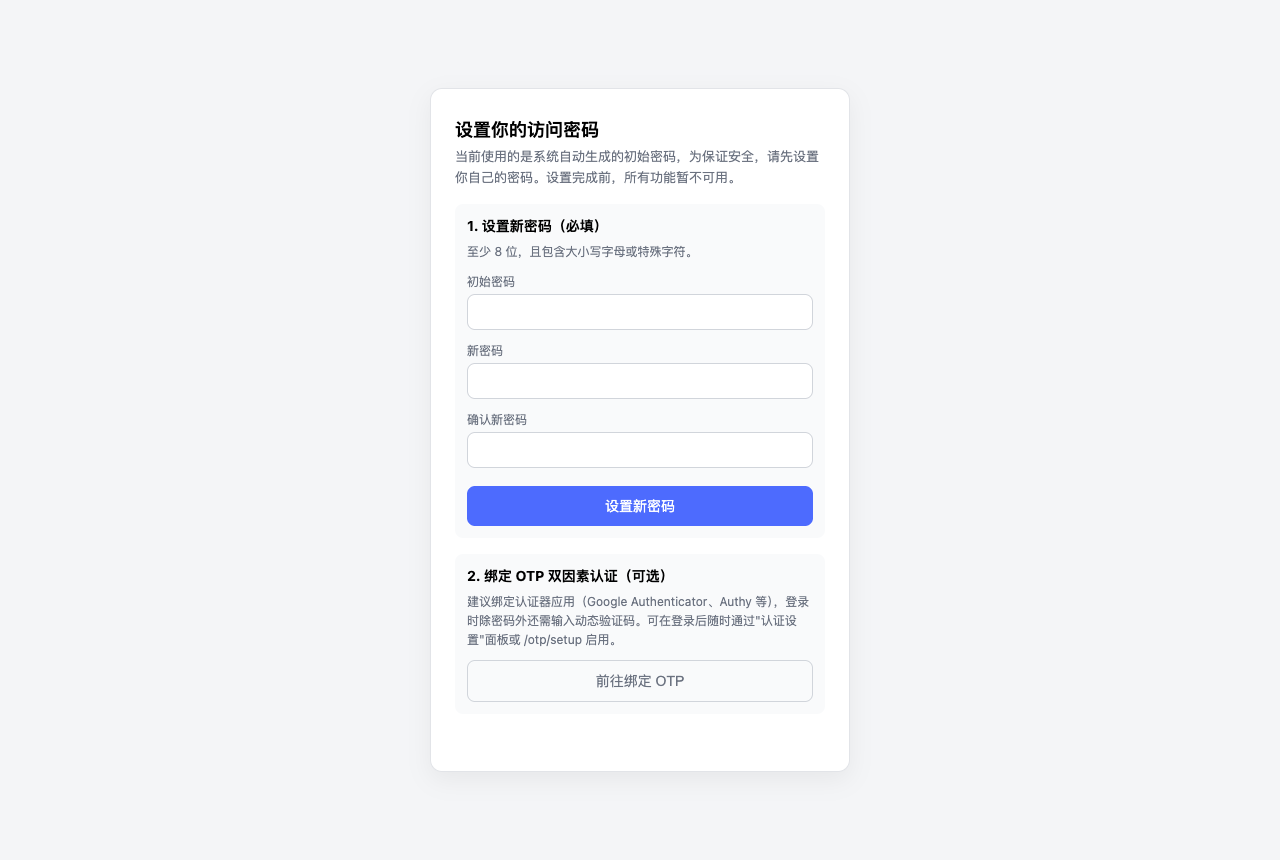
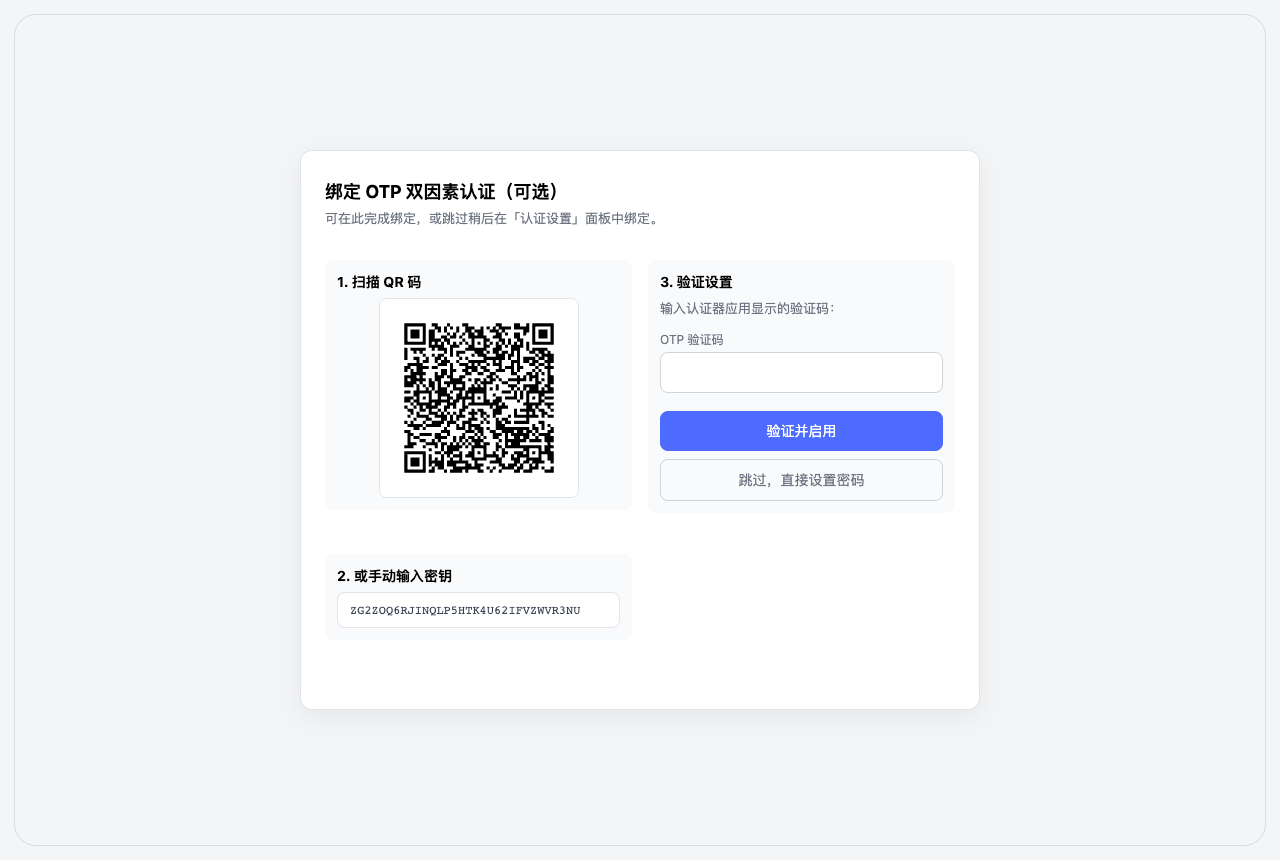
feat: two-step onboarding with optional OTP binding and widened card
Split the first-run flow into two pages: /onboarding (optional TOTP
binding, auto-started on load, skip button) and /onboarding/password
(mandatory personal password). Binding OTP mid-onboarding no longer
revokes the session or clears the cookie — the password step revokes
once, so the user is not bounced back to login in the middle of the
flow.

Restructure the step-1 layout for desktop: the card widens from a fixed
420px to min(680px, ...) with a two-column binding area (QR + secret on
the left, verify + skip on the right); a successful binding replaces
the whole flow with backup codes and the Next button, keeping the page
above the fold. Phones fall back to a single column. Regenerate README
screenshots for the new UI.

diff --git a/lib/onboarding-page.js b/lib/onboarding-page.js
@@ -1,8 +1,16 @@
 /**
- * Onboarding page: shown after logging in with the auto-generated initial
- * password. Step 1 (mandatory): set a personal password — all access stays
- * blocked until it is replaced. Step 2 (optional): bind a TOTP authenticator
- * via the OTP setup flow.
+ * Onboarding pages: the first-run flow after logging in with the
+ * auto-generated initial password. Split into two separate pages:
+ *
+ *   /onboarding            — step 1 (optional): bind a TOTP authenticator.
+ *                            The binding flow is shown directly (auto-starts
+ *                            on load); a skip button leads to step 2, and a
+ *                            successful binding continues with a "Next"
+ *                            button. This is the onboarding entry — the
+ *                            settings panel (/otp/setup) is a separate entry
+ *                            for already-onboarded sessions.
+ *   /onboarding/password   — step 2 (mandatory): set a personal password;
+ *                            all access stays blocked until it is replaced.
  *
  * The render locale ('zh' default, 'en') is resolved by the gateway
  * (lib/locale.js) and selects the UI copy and the script-head error map.
@@ -14,41 +22,89 @@ import { baseStyle, scriptHead, strengthErrorScript, makePage } from './page-she
 
 /** Page-specific CSS on top of the shared base. */
 const STYLE = baseStyle + `
-.card { width: min(420px, calc(100vw - 32px)); }
+.card { width: min(680px, calc(100vw - 32px)); }
 p.sub { margin: 0 0 16px; line-height: 1.6; }
 .step { margin: 16px 0; padding: 12px; background: #f9fafb; border-radius: 8px; }
 .step h3 { margin: 0 0 6px; font-size: 14px; }
 .step p { margin: 0; font-size: 12px; color: #6b7280; line-height: 1.6; }
 @media (prefers-color-scheme: dark) { .step { background: #1d1f24; } }
+/* Two-column binding layout on wide screens: QR + secret on the left, the
+   verification form and the skip button on the right — no vertical scrolling
+   on desktop. Phones fall back to a single column. */
+.otp-grid { display: grid; grid-template-columns: 1fr 1fr; gap: 16px; align-items: start; }
+.otp-left { display: flex; flex-direction: column; gap: 12px; }
+.otp-left .qr-container { display: flex; justify-content: center; }
+.otp-left img { border: 1px solid #e2e4e8; border-radius: 8px; width: 200px; height: 200px; }
+.otp-left .secret-box {
+  background: #fff; border: 1px solid #e2e4e8; border-radius: 8px;
+  padding: 10px 12px; word-break: break-all;
+  font-family: monospace; font-size: 12px; color: #374151;
+}
+.otp-right { display: flex; flex-direction: column; gap: 10px; }
+.otp-right p { margin: 0; font-size: 13px; color: #6b7280; line-height: 1.6; }
+.otp-right input { text-align: center; letter-spacing: 8px; font-size: 18px; font-family: monospace; }
+@media (max-width: 640px) { .otp-grid { grid-template-columns: 1fr; } }
+/* The password step keeps its fields compact and centered inside the
+   widened card. */
+.pw-step { max-width: 380px; margin: 0 auto; }
+/* Full-viewport decorative frame: the card keeps its size and stays
+   centered, while the frame border stretches with the screen — a wide
+   desktop gets a wide frame instead of bare side whitespace. */
+body::before {
+  content: ''; position: fixed; top: 14px; right: 14px; bottom: 14px; left: 14px;
+  border: 1px solid rgba(127, 127, 127, 0.22); border-radius: 22px;
+  pointer-events: none;
+}
+@media (prefers-color-scheme: dark) { body::before { border-color: rgba(255, 255, 255, 0.14); } }
 `
 
 /** UI copy per locale. */
 const STR = {
   zh: {
-    title: '设置你的访问密码',
-    sub: '当前使用的是系统自动生成的初始密码，为保证安全，请先设置你自己的密码。设置完成前，所有功能暂不可用。',
-    step1H3: '1. 设置新密码（必填）',
-    step1P: '至少 8 位，且包含大小写字母或特殊字符。',
+    otpTitle: '绑定 OTP 双因素认证（可选）',
+    otpSub: '可在此完成绑定，或跳过稍后在「认证设置」面板中绑定。',
+    otpStep1H3: '1. 扫描 QR 码',
+    otpStep2H3: '2. 或手动输入密钥',
+    otpStep3H3: '3. 验证设置',
+    otpStep3P: '输入认证器应用显示的验证码：',
+    otpLabelOtp: 'OTP 验证码',
+    otpBtnVerifyEnable: '验证并启用',
+    otpSetupDoneP: 'OTP 已启用，请妥善保存下方备份代码。',
+    otpBackupH3: '备份代码（请妥善保存）',
+    otpBackupP: '每个备份代码只能使用一次。如果丢失认证器设备，可以使用这些代码登录。',
+    otpBtnNext: '下一步',
+    btnSkip: '跳过，直接设置密码',
+    passwordTitle: '设置你的访问密码',
+    passwordSub: '当前使用的是系统自动生成的初始密码，为保证安全，请先设置你自己的密码。设置完成前，所有功能暂不可用。',
+    passwordStepH3: '设置新密码（必填）',
+    passwordStepP: '至少 8 位，且包含大小写字母或特殊字符。',
     labelOld: '初始密码',
     labelNew: '新密码',
     labelConfirm: '确认新密码',
     btnSubmit: '设置新密码',
-    step2H3: '2. 绑定 OTP 双因素认证（可选）',
-    step2POn: '建议绑定认证器应用（Google Authenticator、Authy 等），登录时除密码外还需输入动态验证码。可在登录后随时通过"认证设置"面板或 /otp/setup 启用。',
-    btnBind: '前往绑定 OTP',
   },
   en: {
-    title: 'Set your access password',
-    sub: 'You are currently using an auto-generated initial password. Set your own password first — everything stays locked until then.',
-    step1H3: '1. Set a new password (required)',
-    step1P: 'At least 8 characters, with mixed case or a special character.',
+    otpTitle: 'Bind a TOTP authenticator (optional)',
+    otpSub: 'Bind it here, or skip and bind it later from the Auth Settings panel.',
+    otpStep1H3: '1. Scan the QR code',
+    otpStep2H3: '2. Or enter the secret manually',
+    otpStep3H3: '3. Verify the setup',
+    otpStep3P: 'Enter the code shown in your authenticator app:',
+    otpLabelOtp: 'OTP code',
+    otpBtnVerifyEnable: 'Verify & enable',
+    otpSetupDoneP: 'OTP enabled — save the backup codes below.',
+    otpBackupH3: 'Backup codes (keep them safe)',
+    otpBackupP: 'Each backup code can be used once. If you lose your authenticator device, use these codes to sign in.',
+    otpBtnNext: 'Next',
+    btnSkip: 'Skip — set the password',
+    passwordTitle: 'Set your access password',
+    passwordSub: 'You are currently using an auto-generated initial password. Set your own password first — everything stays locked until then.',
+    passwordStepH3: 'Set a new password (required)',
+    passwordStepP: 'At least 8 characters, with mixed case or a special character.',
     labelOld: 'Initial password',
     labelNew: 'New password',
     labelConfirm: 'Confirm new password',
     btnSubmit: 'Set new password',
-    step2H3: '2. Bind a TOTP authenticator (optional)',
-    step2POn: 'Recommended: bind an authenticator app (Google Authenticator, Authy, ...). Login will then require a verification code as well. You can also enable it later from the Auth Settings panel or /otp/setup.',
-    btnBind: 'Bind OTP',
   },
 }
 
@@ -73,12 +129,96 @@ const ERRORS = {
 }
 
 /**
- * Script head (ERRORS + post) followed by strength check and form wiring.
- * The mismatch message resolves through ERRORS so the script stays
- * locale-agnostic apart from the error map.
+ * Page renderer: script head (ERRORS + post) plus the page's own script.
+ * Each page passes only the script it needs — step 1 must not receive the
+ * step-2 form wiring (a listener on a missing #change-form would abort the
+ * whole inline script, including the auto-start binding).
  */
-function buildScript(locale) {
-  return scriptHead(ERRORS[locale]) + strengthErrorScript() + `
+const page = (locale, extraScript) => makePage(STYLE, scriptHead(ERRORS[locale]) + (extraScript || ''))
+
+/**
+ * Step 1 — optional OTP binding, shown directly: the binding flow auto-starts
+ * on load (QR + secret + verify), the user can skip straight to the password
+ * step, and a successful binding continues with a "Next" button.
+ * @param {object} options - `{ locale }`: 'zh' (default) or 'en'.
+ */
+export function onboardingPageHtml({ locale = 'zh' } = {}) {
+  const str = STR[locale] || STR.zh
+  return page(locale, `
+// Auto-start the binding flow: stage a secret and render the QR right away.
+(async () => {
+  const err = document.getElementById('error');
+  try {
+    const data = await post('/otp/enable', {});
+    if (!data.ok) { err.textContent = data.error || 'failed'; document.getElementById('otp-loading').textContent = ''; return; }
+    document.getElementById('qr').src = data.svgUrl;
+    document.getElementById('secret-display').textContent = data.secret;
+    document.getElementById('otp-loading').style.display = 'none';
+    document.getElementById('otp-setup').style.display = 'block';
+  } catch (ex) { err.textContent = ex.message; document.getElementById('otp-loading').textContent = ''; }
+})();
+document.getElementById('verify-form').addEventListener('submit', async (e) => {
+  e.preventDefault();
+  const err = document.getElementById('error');
+  const btn = document.querySelector('#verify-form button[type=submit]');
+  const code = document.getElementById('otp').value;
+  if (!code) { err.textContent = '请输入验证码'; return; }
+  btn.disabled = true;
+  try {
+    const data = await post('/otp/verify-setup', { otp: code });
+    document.getElementById('backup-codes').textContent = (data.backupCodes || []).join('\\n');
+    // The binding flow is done — replace it with the backup codes and the
+    // "Next" button so the whole page stays above the fold.
+    document.getElementById('otp-setup').style.display = 'none';
+    document.getElementById('setup-done').style.display = 'block';
+    document.getElementById('otp-done-btn').onclick = () => { location.href = data.next || '/onboarding/password'; };
+    err.textContent = '';
+  } catch (ex) { err.textContent = ex.message; btn.disabled = false; }
+});
+`)(str.otpTitle, str.otpSub, `
+<div id="otp-setup" style="display:none">
+  <div class="otp-grid">
+    <div class="otp-left">
+      <div class="step">
+        <h3>${str.otpStep1H3}</h3>
+        <div class="qr-container"><img id="qr" alt="OTP QR Code"></div>
+      </div>
+      <div class="step">
+        <h3>${str.otpStep2H3}</h3>
+        <div class="secret-box" id="secret-display"></div>
+      </div>
+    </div>
+    <div class="otp-right">
+      <div class="step">
+        <h3>${str.otpStep3H3}</h3>
+        <p>${str.otpStep3P}</p>
+        <form id="verify-form">
+          <label for="otp">${str.otpLabelOtp}</label>
+          <input id="otp" type="text" inputmode="numeric" autocomplete="one-time-code" required>
+          <button type="submit">${str.otpBtnVerifyEnable}</button>
+        </form>
+        <button class="secondary" type="button" onclick="location.href='/onboarding/password'" style="margin-top:8px;width:100%;">${str.btnSkip}</button>
+      </div>
+    </div>
+  </div>
+</div>
+<div id="setup-done" style="display:none">
+  <p style="font-size:13px;color:#166534;margin:0 0 12px;">${str.otpSetupDoneP}</p>
+  <div class="backup-codes"><h3>${str.otpBackupH3}</h3><pre id="backup-codes"></pre>
+    <p style="margin-top:8px;font-size:12px;color:#92400e;">${str.otpBackupP}</p>
+  </div>
+  <button type="button" id="otp-done-btn" style="margin-top:12px;width:100%;">${str.otpBtnNext}</button>
+</div>
+<div id="otp-loading" style="font-size:13px;color:#6b7280;">…</div>`)
+}
+
+/**
+ * Step 2 — mandatory personal password (served at GET /onboarding/password).
+ * @param {object} options - `{ locale }`: 'zh' (default) or 'en'.
+ */
+export function onboardingPasswordPageHtml({ locale = 'zh' } = {}) {
+  const str = STR[locale] || STR.zh
+  return page(locale, strengthErrorScript() + `
 document.getElementById('change-form').addEventListener('submit', async (e) => {
   e.preventDefault()
   const err = document.getElementById('error')
@@ -101,38 +241,20 @@ document.getElementById('change-form').addEventListener('submit', async (e) => {
     btn.disabled = false
   }
 })
-`
-}
-
-const page = (locale) => makePage(STYLE, buildScript(locale))
-
-/**
- * Render the onboarding page.
- * @param {object} options - `{ otpBindingAvailable }`: whether the optional
- *   OTP-binding step is shown (false once 2FA is already active);
- *   `{ locale }`: 'zh' (default) or 'en'.
- */
-export function onboardingPageHtml({ otpBindingAvailable = true, locale = 'zh' } = {}) {
-  const str = STR[locale] || STR.zh
-  const otpStep = otpBindingAvailable ? `
-<div class="step">
-  <h3>${str.step2H3}</h3>
-  <p>${str.step2POn}</p>
-  <button class="secondary" type="button" onclick="location.href='/otp/setup'" style="margin-top:10px">${str.btnBind}</button>
-</div>` : ''
-  return page(locale)(str.title, str.sub, `
+`)(str.passwordTitle, str.passwordSub, `
 <form id="change-form">
-  <div class="step">
-    <h3>${str.step1H3}</h3>
-    <p>${str.step1P}</p>
-    <label for="oldPassword">${str.labelOld}</label>
-    <input id="oldPassword" type="password" autocomplete="current-password" required>
-    <label for="newPassword">${str.labelNew}</label>
-    <input id="newPassword" type="password" autocomplete="new-password" required>
-    <label for="confirm">${str.labelConfirm}</label>
-    <input id="confirm" type="password" autocomplete="new-password" required>
-    <button type="submit">${str.btnSubmit}</button>
+  <div class="pw-step">
+    <div class="step">
+      <h3>${str.passwordStepH3}</h3>
+      <p>${str.passwordStepP}</p>
+      <label for="oldPassword">${str.labelOld}</label>
+      <input id="oldPassword" type="password" autocomplete="current-password" required>
+      <label for="newPassword">${str.labelNew}</label>
+      <input id="newPassword" type="password" autocomplete="new-password" required>
+      <label for="confirm">${str.labelConfirm}</label>
+      <input id="confirm" type="password" autocomplete="new-password" required>
+      <button type="submit">${str.btnSubmit}</button>
+    </div>
   </div>
-</form>
-${otpStep}`, '')
+</form>`)
 }

diff --git a/lib/gateway.js b/lib/gateway.js
@@ -17,7 +17,7 @@ import { SessionStore, sessionCookie, expiredCookie, tokenFromCookieHeader } fro
 import { hasPassword, setPassword, verifyPassword, isInitialPassword, generateInitialPassword } from './store.js'
 import { validatePasswordStrength } from './policy.js'
 import { loginPageHtml } from './login-page.js'
-import { onboardingPageHtml } from './onboarding-page.js'
+import { onboardingPageHtml, onboardingPasswordPageHtml } from './onboarding-page.js'
 import { hasOTP, getOTPStatus, getOTPSecret, getLastCounter, setLastCounter, verifyAndUseBackupCode } from './otp-store.js'
 import { verifyTOTP } from './totp.js'
 import { createOTPRoutes } from './gateway-otp.js'
@@ -168,6 +168,9 @@ export class LoginGateway {
     if (req.method === 'GET' && pathname === '/onboarding') {
       return this.#serveOnboardingPage(req, res)
     }
+    if (req.method === 'GET' && pathname === '/onboarding/password') {
+      return this.#serveOnboardingPasswordPage(req, res)
+    }
 
     // Everything else: the auth gate, then transparent forwarding.
     const token = tokenFromCookieHeader(req.headers.cookie)
@@ -223,7 +226,12 @@ export class LoginGateway {
     return pageLocale(localePreference(), req.headers['accept-language'])
   }
 
-  /** GET /onboarding — force a personal password after the initial one. */
+  /**
+   * GET /onboarding — step 1 of the first-run flow: optional OTP binding.
+   * Binding OTP revokes every session (the user lands back at /login and
+   * re-enters onboarding with 2FA active), so step 1 only makes sense while
+   * 2FA is NOT active yet — otherwise jump straight to the password step.
+   */
   #serveOnboardingPage(req, res) {
     const token = tokenFromCookieHeader(req.headers.cookie)
     if (!this.sessions.isValid(token)) {
@@ -231,8 +239,30 @@ export class LoginGateway {
       res.end()
       return
     }
+    if (this.#otpActive()) {
+      res.writeHead(302, { location: '/onboarding/password' })
+      res.end()
+      return
+    }
     const html = onboardingPageHtml({
-      otpBindingAvailable: !this.#otpActive(),
+      locale: this.#pageLocale(req),
+    })
+    res.writeHead(200, {
+      'content-type': 'text/html; charset=utf-8',
+      'cache-control': 'no-store',
+    })
+    res.end(html)
+  }
+
+  /** GET /onboarding/password — step 2: set the personal password (mandatory). */
+  #serveOnboardingPasswordPage(req, res) {
+    const token = tokenFromCookieHeader(req.headers.cookie)
+    if (!this.sessions.isValid(token)) {
+      res.writeHead(302, { location: '/login' })
+      res.end()
+      return
+    }
+    const html = onboardingPasswordPageHtml({
       locale: this.#pageLocale(req),
     })
     res.writeHead(200, {
